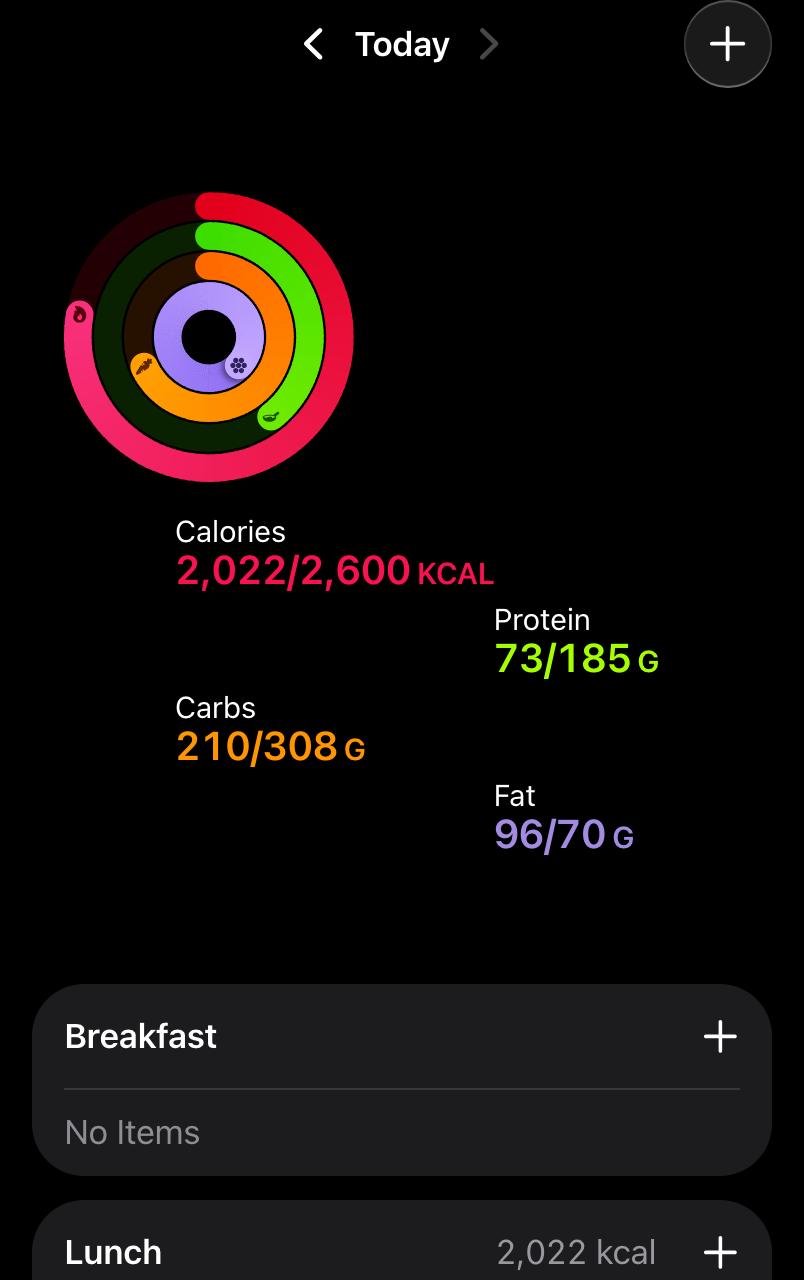
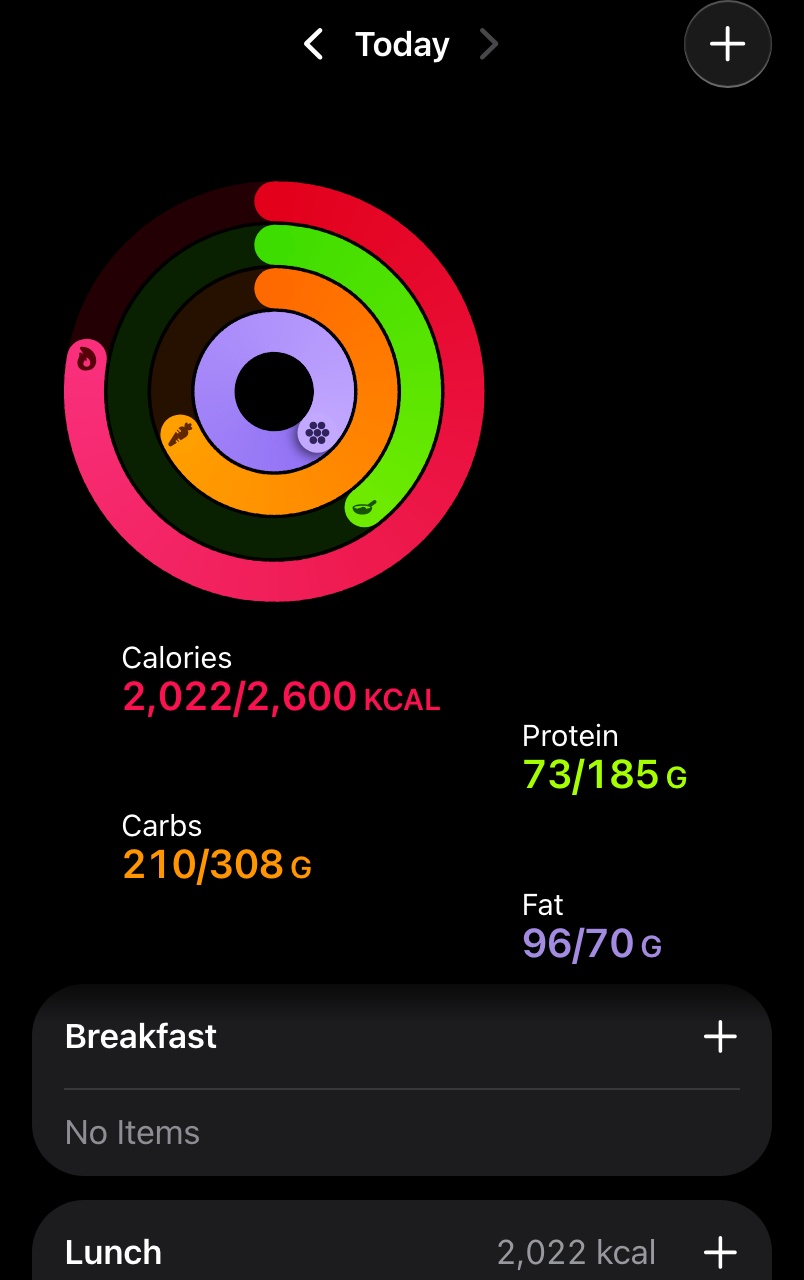
Ring hero: gentler, slower shrink
The rings now shrink across the first half of the scroll on a smoothstep ease (about
half the old peak speed) instead of a fast early burst, with the legend's spread, slide
and rise blended over the rest. A black backdrop and a soft edge under the hero let the
content's top few points slip just beneath it when they meet.

diff --git a/src/core/heroMotion.ts b/src/core/heroMotion.ts
@@ -5,14 +5,14 @@
  * Big (top of the page): the rings fill the width, the legend two by two under them.
  * Small (scrolled): the card as it's always been, rings on the left, the legend in a column beside.
  *
- * Everything moves at once, each part on its own eased (smootherstep) stretch of the scroll, the
- * stretches overlapping so it reads as one motion: the rings shrink into the top left; the legend's
- * rows spread apart while its lines slide into one column, and the column rises beside the rings.
- * The stretches were found by searching for the most overlap that never lets a line touch the
- * rings, another line, or the content below, at every iPhone width (heroMotion.test.ts checks it).
+ * The rings shrink across the first half of the scroll on a gentle ease-in-out; meanwhile the legend's
+ * rows spread apart, its lines slide into one column, and the column rises beside the rings, each
+ * on its own overlapping eased stretch, so it reads as one motion. The stretches were found by
+ * searching for the slowest rings and most overlap that never let a line touch the rings or
+ * another line, at every iPhone width (heroMotion.test.ts checks it).
  *
- * The page keeps the big layout's height (plus a little slack) and the hero stays pinned while it
- * shrinks, so the content below rises one point per point scrolled.
+ * The content below scrolls at the finger's speed. The hero, pinned while it collapses, keeps just
+ * ahead of it: at most the content's top few points slip under the hero's soft bottom edge.
  */
 
 export const HERO = {
@@ -30,11 +30,11 @@ export const HERO = {
   LINE: 3,
   /** Extra room under the big legend, so the legend can unfold before the content below arrives. */
   SLACK: 24,
-  /** Each part's stretch of the scroll (0 to 1), eased: */
-  RINGS: [0, 0.35],
-  SPREAD: [0, 0.3],
-  SLIDE: [0.125, 0.625],
-  RISE: [0.2, 1],
+  /** Each part's stretch of the scroll (0 to 1), eased. The rings take the first half, gently: */
+  RINGS: [0, 0.5],
+  SPREAD: [0, 0.4],
+  SLIDE: [0.2, 0.8],
+  RISE: [0.4, 1],
 };
 
 export interface HeroInput {
@@ -48,6 +48,8 @@ export interface HeroInput {
 export interface HeroFrame {
   ring: { x: number; y: number; size: number };
   items: { x: number; y: number }[];
+  /** How far down the hero reaches (its backdrop's height). */
+  height: number;
 }
 
 export interface HeroPlan {
@@ -64,6 +66,8 @@ const clamp = (v: number) => Math.min(1, Math.max(0, v));
 /** Smootherstep: eases in and out with no jolt at either end. */
 const ease = (t: number) => t * t * t * (t * (6 * t - 15) + 10);
 const along = (p: number, [a, b]: number[]) => ease(clamp((p - a) / (b - a)));
+/** Smoothstep: a gentler ease in and out, for the rings. */
+const gentle = (t: number) => t * t * (3 - 2 * t);
 
 export function planHero({ width: W, ws, hs }: HeroInput): HeroPlan {
   const { PAD, SMALL, BESIDE, UNDER, ROWGAP, LINE, SLACK, RINGS, SPREAD, SLIDE, RISE } = HERO;
@@ -100,23 +104,22 @@ export function planHero({ width: W, ws, hs }: HeroInput): HeroPlan {
   const colDy = off.map((v) => UNDER + v);
   const frame = (pRaw: number): HeroFrame => {
     const p = clamp(pRaw);
-    const r = along(p, RINGS);
+    const r = gentle(clamp((p - RINGS[0]) / (RINGS[1] - RINGS[0])));
     const size = W + (SMALL - W) * r;
     const ringY = PAD + (ringY1 - PAD) * r;
     const ringBottom = ringY + size;
     const spread = along(p, SPREAD);
     const slide = along(p, SLIDE);
     const rise = along(p, RISE);
-    return {
-      ring: { x: 0, y: ringY, size },
-      items: hs.map((_, i) => {
-        const dy = gridDy[i] + (colDy[i] - gridDy[i]) * spread;
-        const x0 = xs[i % 2];
-        const under = ringBottom + dy;
-        const final = colTop + off[i];
-        return { x: x0 + (colX - x0) * slide, y: under + (final - under) * rise };
-      }),
-    };
+    const items = hs.map((_, i) => {
+      const dy = gridDy[i] + (colDy[i] - gridDy[i]) * spread;
+      const x0 = xs[i % 2];
+      const under = ringBottom + dy;
+      const final = colTop + off[i];
+      return { x: x0 + (colX - x0) * slide, y: under + (final - under) * rise };
+    });
+    const height = Math.max(ringBottom, ...items.map((it, i) => it.y + hs[i]));
+    return { ring: { x: 0, y: ringY, size }, items, height };
   };
 
   return { bigH, smallH, span, frame };

diff --git a/src/ui/kit.tsx b/src/ui/kit.tsx
@@ -911,12 +911,13 @@ export function RingSummary({ rows, hero }: { rows: RingRow[]; hero?: boolean })
 /**
  * The rings at the top of a page (Today, Food), sized by how far the page is scrolled: full width
  * with the legend two by two under them at the top, the usual card once scrolled, and every step
- * between (core/heroMotion.ts has the motion and why nothing overlaps). Let go partway and they
- * settle into whichever is nearer, as iOS's large titles do.
+ * between (core/heroMotion.ts has the motion). Let go partway and they settle into whichever is
+ * nearer, as iOS's large titles do.
  *
- * The page keeps the big layout's height and the rings stay pinned (sticky) while they shrink, so
- * the content below rises as the hero gets shorter. Everything moves by transform, so scrolling
- * doesn't lay out the page again.
+ * The hero stays pinned (sticky) while it collapses and the content below scrolls at the finger's
+ * speed; where its top would touch the hero, a black backdrop as tall as the hero and a soft edge
+ * under it let it slip just beneath. Everything moves by transform, so scrolling doesn't lay out
+ * the page again.
  */
 function RingHero({ art, legend }: { art: ReactNode; legend: ReactNode[] }) {
   const box = useRef<HTMLDivElement>(null);
@@ -927,7 +928,10 @@ function RingHero({ art, legend }: { art: ReactNode; legend: ReactNode[] }) {
     const inner = spacer?.firstElementChild as HTMLElement | null;
     const page = spacer?.closest<HTMLElement>('.k-page');
     if (!spacer || !inner || !page) return;
+    const backdrop = inner.querySelector<HTMLElement>('.ring-hero-backdrop');
+    const edge = inner.querySelector<HTMLElement>('.ring-hero-edge');
     let plan: HeroPlan | null = null;
+    let below = 0; // from the hero's bottom (big) to the content under it
 
     const paint = () => {
       if (!plan) return;
@@ -938,6 +942,14 @@ function RingHero({ art, legend }: { art: ReactNode; legend: ReactNode[] }) {
         const at = f.items[i];
         if (at) el.style.transform = `translate(${at.x}px, ${at.y}px)`;
       });
+      // The backdrop covers the hero; its soft edge shows only while content is under it.
+      const s = Math.min(page.scrollTop, plan.span);
+      const contentTop = plan.bigH + below - s;
+      if (backdrop) backdrop.style.height = `${f.height + 4}px`;
+      if (edge) {
+        edge.style.transform = `translateY(${f.height + 4}px)`;
+        edge.style.opacity = String(Math.min(1, Math.max(0, (f.height + 4 + 24 - contentTop) / 24)));
+      }
     };
 
     const measure = () => {
@@ -955,6 +967,19 @@ function RingHero({ art, legend }: { art: ReactNode; legend: ReactNode[] }) {
         ring.style.width = `${width}px`;
         ring.style.height = `${width}px`;
       }
+      // The backdrop spans the page's width, from edge to edge.
+      const pageBox = page.getBoundingClientRect();
+      const heroBox = spacer.getBoundingClientRect();
+      for (const el of [backdrop, edge]) {
+        if (!el) continue;
+        el.style.left = `${pageBox.left - heroBox.left}px`;
+        el.style.width = `${pageBox.width}px`;
+      }
+      // Where the next thing on the page starts, under the big hero.
+      const card = spacer.closest('.fit-card') ?? spacer;
+      let next = card.nextElementSibling ?? card.parentElement?.nextElementSibling ?? null;
+      while (next && !(next as HTMLElement).offsetHeight) next = next.nextElementSibling;
+      below = next ? next.getBoundingClientRect().top - (heroBox.top + plan.bigH) : 0;
       paint();
     };
     relayout.current = measure;
@@ -1014,6 +1039,8 @@ function RingHero({ art, legend }: { art: ReactNode; legend: ReactNode[] }) {
   return (
     <div ref={box} className="ring-hero">
       <div className="ring-hero-inner">
+        <div className="ring-hero-backdrop" aria-hidden />
+        <div className="ring-hero-edge" aria-hidden />
         {art}
         {legend.map((item, i) => (
           <div key={i} className="ring-hero-item">

diff --git a/src/core/heroMotion.test.ts b/src/core/heroMotion.test.ts
@@ -21,15 +21,17 @@ describe('ring hero motion', () => {
           const { ring, items } = plan.frame(p);
           const cx = ring.x + ring.size / 2;
           const cy = ring.y + ring.size / 2;
-          const bound = plan.bigH - p * plan.span; // where the content below has risen to
           items.forEach((a, i) => {
             const ra = { l: a.x, t: a.y, r: a.x + ws[i], b: a.y + hs[i] };
             // Clear of the rings (a circle), by a few points.
             const nx = Math.min(Math.max(cx, ra.l), ra.r);
             const ny = Math.min(Math.max(cy, ra.t), ra.b);
             expect(Math.hypot(cx - nx, cy - ny), `line ${i} vs rings at p=${p}`).toBeGreaterThan(ring.size / 2 + 4);
-            // Above the content below.
-            expect(ra.b, `line ${i} vs content at p=${p}`).toBeLessThanOrEqual(bound + 0.5);
+            // Inside the hero's backdrop.
+            expect(ra.b, `line ${i} vs backdrop at p=${p}`).toBeLessThanOrEqual(plan.frame(p).height + 0.01);
+            // Nearly clear of the content below (which starts about 28pt under the big hero and rises
+            // a point per point scrolled): at most its top few points go under the hero's soft edge.
+            expect(ra.b, `line ${i} vs content at p=${p}`).toBeLessThanOrEqual(plan.bigH - p * plan.span + 32);
             // Clear of every other line.
             items.forEach((b, j) => {
               if (j <= i) return;
@@ -38,7 +40,6 @@ describe('ring hero motion', () => {
               expect(overlap, `lines ${i} and ${j} at p=${p}`).toBe(false);
             });
           });
-          expect(ring.y + ring.size).toBeLessThanOrEqual(bound + 0.5);
         }
       });
     }

diff --git a/src/ui/bars.css b/src/ui/bars.css
@@ -845,6 +845,22 @@ button.meal-row:not(:disabled):active {
   position: sticky;
   z-index: 1;
 }
+/* Behind the hero, edge to edge: hides the content sliding under it while it collapses, with a
+ * soft 24pt edge (like a navigation bar's) where the content goes under. */
+.ring-hero-backdrop,
+.ring-hero-edge {
+  position: absolute;
+  top: 0;
+}
+.ring-hero-backdrop {
+  background: var(--ios-bg);
+}
+.ring-hero-edge {
+  height: 24px;
+  pointer-events: none;
+  opacity: 0;
+  background: linear-gradient(to bottom, var(--ios-bg), rgba(0, 0, 0, 0));
+}
 .ring-hero-art,
 .ring-hero-item {
   position: absolute;
